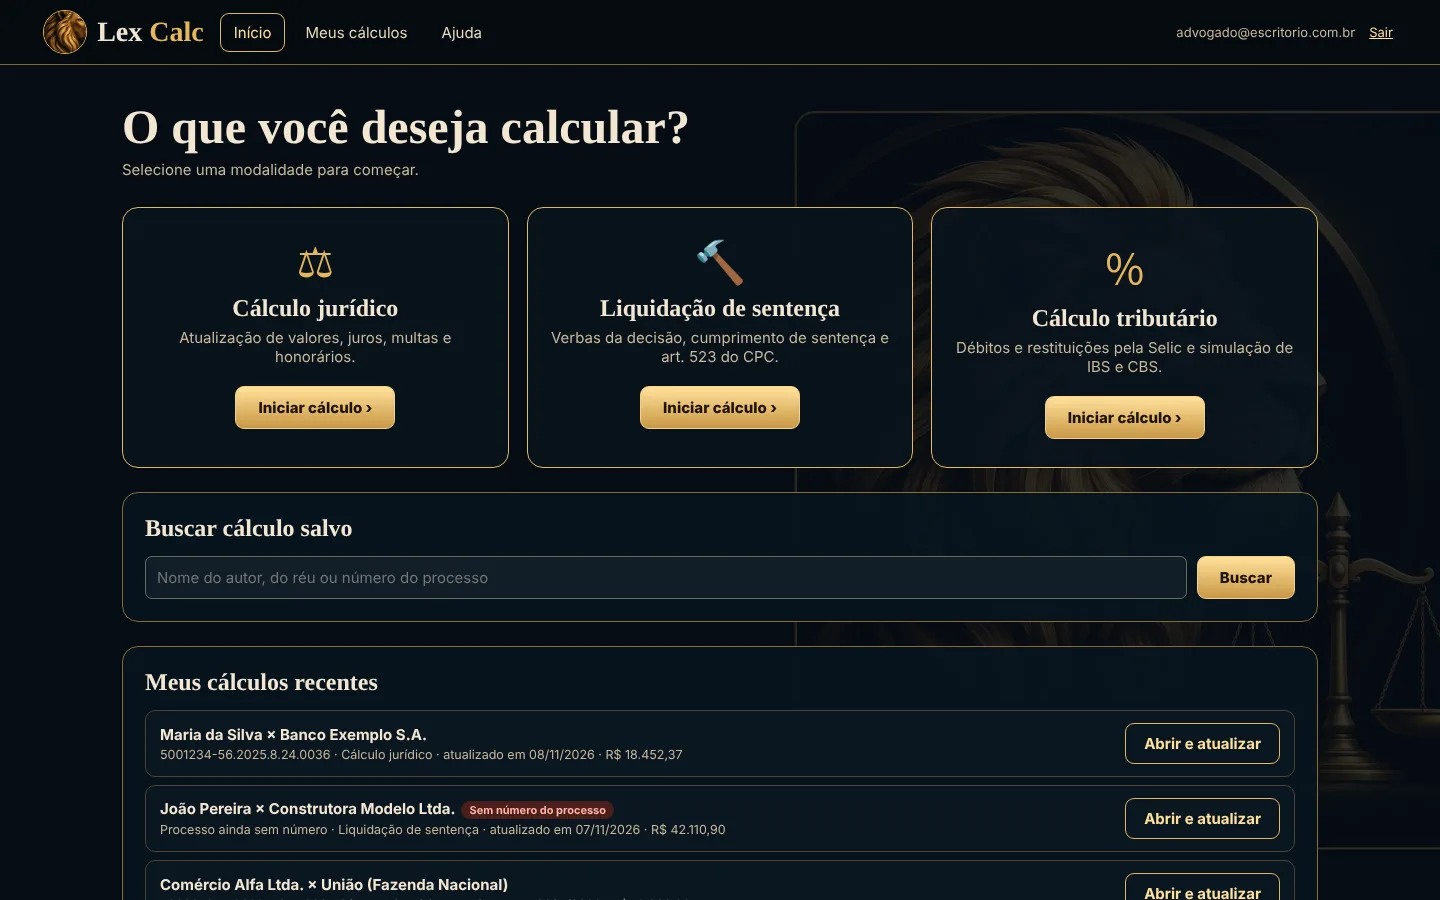
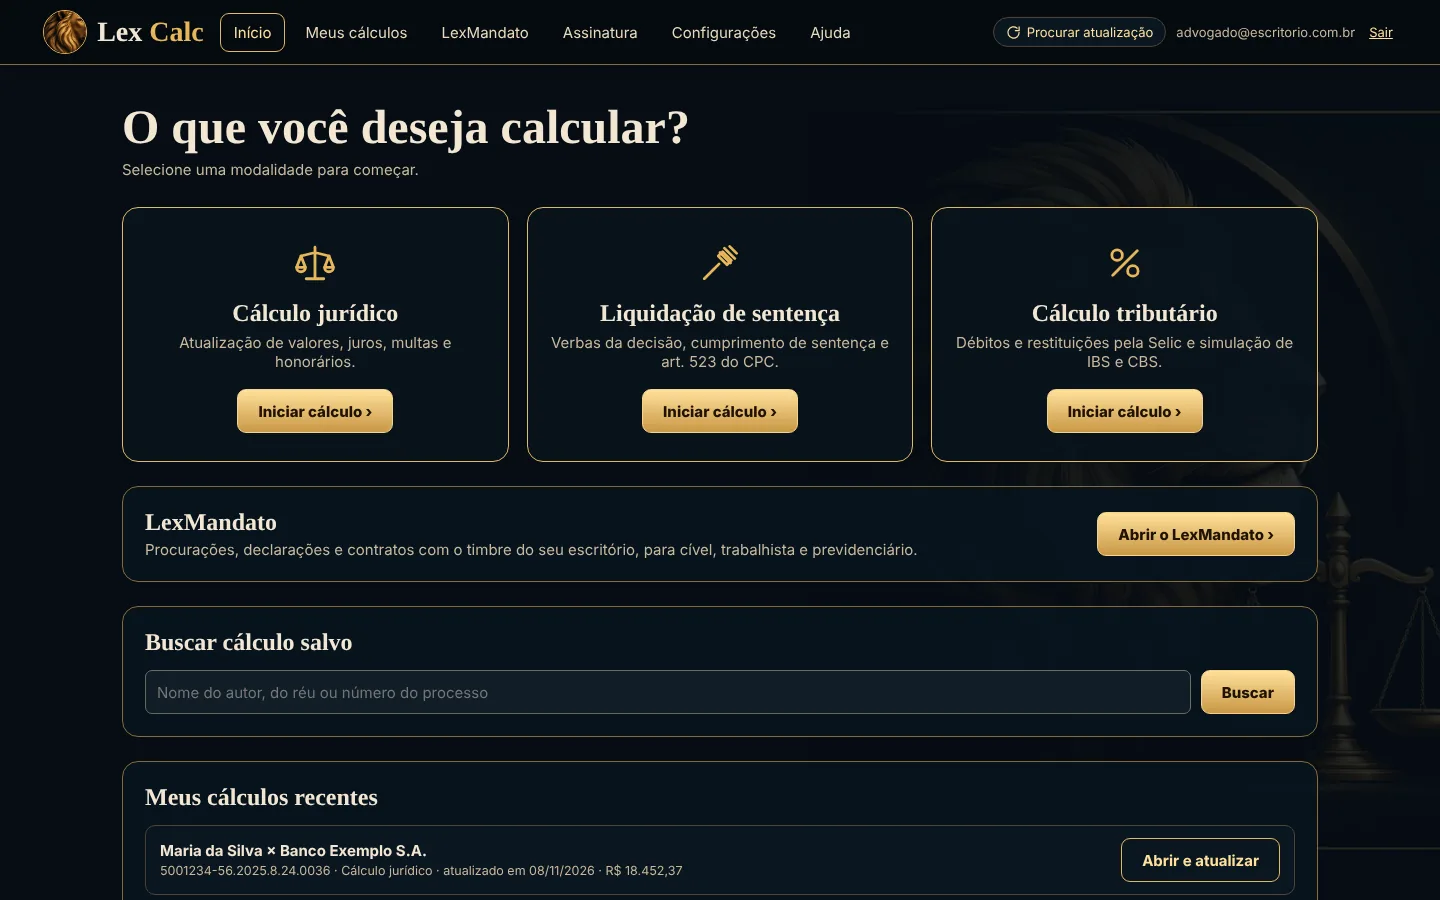
Site: LexMandato no Lex Calc, textos dos dois planos do BlackFlow e termos
- seis telas novas ou refeitas do Lex Calc, com dados fictícios: tela
  inicial com o acesso ao LexMandato, painel, nova procuração em etapas,
  revisão com a conferência do art. 105 do CPC, biblioteca do escritório e
  lista de documentos com situação;
- textos do topo, do cartão e da apresentação passam a citar o LexMandato
  e os profissionais de hora marcada no BlackFlow;
- retirada a frase "plano único" da aba do BlackFlow, que contradizia os
  dois planos;
- Termos: responsabilidade pelos documentos gerados no LexMandato;
- Privacidade: dados dos clientes do escritório no LexMandato (escritório
  controlador, BlackSolutions operadora) e consulta ao ViaCEP.

diff --git a/index.html b/index.html
@@ -4,7 +4,7 @@
 <meta charset="utf-8">
 <meta name="viewport" content="width=device-width,initial-scale=1">
 <title>BlackSolutions</title>
-<meta name="description" content="BlackSolutions: BlackFlow, gestão para clínicas e salões, e Lex Calc, cálculos jurídicos e tributários. Veja todas as telas e como funcionam.">
+<meta name="description" content="BlackSolutions: BlackFlow, agenda e gestão para clínicas, salões e profissionais de hora marcada, e Lex Calc, cálculos jurídicos e tributários com o LexMandato para procurações e contratos. Veja todas as telas e como funcionam.">
 <meta name="theme-color" content="#0a0820">
 <link rel="icon" href="favicon.ico">
 <link rel="preconnect" href="https://fonts.googleapis.com"><link rel="preconnect" href="https://fonts.gstatic.com" crossorigin>
@@ -57,33 +57,33 @@ footer{border-top:1px solid var(--line);padding:26px 0;color:var(--mut);font-siz
 <main>
 <div class="w hero"><span class="eye">Software brasileiro, feito em Jaraguá do Sul</span>
  <h1>Sistemas que <span>organizam o seu trabalho</span> do primeiro atendimento ao último cálculo.</h1>
- <p>O <b>BlackFlow</b> cuida da gestão de clínicas de podologia, estética e salões de beleza. O <b>Lex Calc</b> faz cálculos jurídicos e tributários com índices oficiais. Os dois funcionam pela internet, no computador e no celular, com tudo salvo na nuvem.</p>
+ <p>O <b>BlackFlow</b> organiza a agenda e a gestão de clínicas de podologia, estética, salões de beleza e de quem trabalha com hora marcada. O <b>Lex Calc</b> faz cálculos jurídicos e tributários com índices oficiais e, pelo LexMandato, gera procurações, declarações e contratos com a identidade do escritório. Os dois funcionam pela internet, no computador e no celular, com tudo salvo na nuvem.</p>
  <div class="acts"><a class="btn bv" href="#produtos" onclick="aba('bf')">Ver as telas do BlackFlow</a><a class="btn bg" href="#produtos" onclick="aba('lx')">Ver as telas do Lex Calc</a></div>
- <div class="duo"><a class="pc" href="https://blackflow.app.br"><img src="img/blackflow-icone.png" alt=""><div><h3>BlackFlow</h3><p>Gestão de clínicas e salões · a partir de R$ 29,90 por mês</p></div></a><a class="pc lex" href="https://lexcalc.app.br"><img src="img/lexcalc-icone.png" alt=""><div><h3>Lex Calc</h3><p>Cálculos jurídicos, procurações e contratos · R$ 29,90 por mês</p></div></a></div>
+ <div class="duo"><a class="pc" href="https://blackflow.app.br"><img src="img/blackflow-icone.png" alt=""><div><h3>BlackFlow</h3><p>Agenda e gestão para clínicas e salões · a partir de R$ 29,90 por mês</p></div></a><a class="pc lex" href="https://lexcalc.app.br"><img src="img/lexcalc-icone.png" alt=""><div><h3>Lex Calc</h3><p>Cálculos jurídicos, procurações e contratos · R$ 29,90 por mês</p></div></a></div>
 </div>
 
 <div class="w" id="produtos">
  <div class="tabs"><button class="tab on" id="tbf" onclick="aba('bf')"><img src="img/blackflow-icone.png" alt="">BlackFlow</button><button class="tab" id="tlx" onclick="aba('lx')"><img src="img/lexcalc-icone.png" alt="">Lex Calc</button></div>
 
  <div class="painel on" id="pbf">
-  <div class="intro"><h2>BlackFlow por dentro</h2><p>Veja cada tela do sistema e para que ela serve. Tudo o que aparece aqui vem no plano único, sem módulo extra para pagar.</p>
+  <div class="intro"><h2>BlackFlow por dentro</h2><p>Veja cada tela do sistema e para que ela serve. Tudo o que aparece aqui vem no plano Completo. No plano Só agenda ficam a agenda, os clientes, os profissionais, os serviços e preços e a confirmação pelo WhatsApp.</p>
    <a class="btn bv" href="https://blackflow.app.br">Abrir o BlackFlow</a> <a class="btn bo" href="https://blackflow.app.br/download/BlackFlow_Instalador.exe">Baixar para Windows</a> <a class="btn bo" href="https://blackflow.app.br/download/BlackFlow_Mac_AppleSilicon.dmg">Baixar para Mac</a></div>
   <div class="grade" id="gbf"></div>
   <div class="duo precos">
    <div class="preco"><span style="color:var(--mut);font-weight:700">Só agenda</span><b>R$ 29,90 por mês</b><p>Para quem quer apenas a agenda: horários por profissional, cadastro de clientes, serviços e preços, confirmação pelo WhatsApp e agendamento online. Pensado para manicure, pedicure, barbearia, estúdio de unhas, cílios, massagem e qualquer profissional que trabalhe com hora marcada.</p><div class="pbt"><a class="btn bv" href="https://blackflow.app.br">Começar o teste grátis</a></div></div>
    <div class="preco"><span style="color:var(--mut);font-weight:700">Completo</span><b>R$ 79,99 por mês</b><p>Tudo o que o seu negócio usa: agenda, financeiro com parcelas e recibo, comanda, caixa do dia, estoque, comissões, relatórios e os módulos do seu segmento. Os 100 primeiros assinantes mantêm esse valor sem reajuste enquanto a assinatura estiver ativa.</p><div class="pbt"><a class="btn bv" href="https://blackflow.app.br">Começar o teste grátis</a> <a class="btn bo" href="https://blackflow.app.br/download/Manual_BlackFlow.pdf" target="_blank">Manual em PDF</a></div></div>
   </div>
-  <p style="text-align:center;color:var(--mut);margin:14px 0 0">Teste grátis por 14 dias nos dois planos. Dá para trocar de plano dentro do sistema, sem perder nada do que já foi lançado.</p>
+  <p style="text-align:center;color:var(--mut);margin:14px 0 0">Teste grátis por 14 dias nos dois planos. Para mudar de plano, basta escolher na tela de assinatura do próprio sistema, sem perder nada do que já foi lançado.</p>
  </div>
 
  <div class="painel lexp" id="plx">
-  <div class="intro"><h2>Lex Calc por dentro</h2><p>Cálculo jurídico, liquidação de sentença e cálculo tributário, com os índices buscados direto no Banco Central e cada cálculo salvo na nuvem para atualizar depois.</p><a class="btn bg" href="https://lexcalc.app.br">Abrir o Lex Calc</a></div>
+  <div class="intro"><h2>Lex Calc por dentro</h2><p>Cálculo jurídico, liquidação de sentença e cálculo tributário, com os índices buscados direto no Banco Central e cada cálculo salvo na nuvem para atualizar depois. No mesmo acesso, o LexMandato prepara procurações, declarações e contratos de honorários para as áreas cível, trabalhista e previdenciária.</p><a class="btn bg" href="https://lexcalc.app.br">Abrir o Lex Calc</a></div>
   <div class="grade" id="glx"></div>
   <div class="preco"><span style="color:var(--mut);font-weight:700">Plano único, com os três tipos de cálculo</span><b style="color:var(--gold2)">R$ 29,90 por mês</b><p>Cálculo jurídico, liquidação de sentença e cálculo tributário, com cálculos ilimitados e salvos na nuvem. Inclui o LexMandato, que gera procurações, declarações e contratos com a identidade do seu escritório. Teste grátis por 14 dias.</p><a class="btn bg" href="https://lexcalc.app.br">Começar o teste grátis</a></div>
  </div>
 </div>
 
-<section class="w fund" id="fundador"><div class="fundbox"><div class="fundini">IM</div><div><div class="fundtag">Fundador e CEO</div><h2>Igor Vinicius Penha Martínez</h2><p>A BlackSolutions nasceu dentro de uma clínica de podologia em Jaraguá do Sul e da rotina de quem estuda e trabalha com o Direito. O BlackFlow foi criado para resolver os problemas reais da gestão de uma clínica, e o Lex Calc para dar ao advogado cálculos judiciais confiáveis, com índices oficiais atualizados sozinhos. Cada sistema é desenvolvido e mantido de perto, com atendimento direto de quem os criou.</p></div></div></section>
+<section class="w fund" id="fundador"><div class="fundbox"><div class="fundini">IM</div><div><div class="fundtag">Fundador e CEO</div><h2>Igor Vinicius Penha Martínez</h2><p>A BlackSolutions nasceu dentro de uma clínica de podologia em Jaraguá do Sul e da rotina de quem estuda e trabalha com o Direito. O BlackFlow foi criado para resolver os problemas reais da gestão de uma clínica, e o Lex Calc para dar ao advogado cálculos judiciais confiáveis, com índices oficiais atualizados sozinhos, e a documentação do cliente pronta no padrão do próprio escritório. Cada sistema é desenvolvido e mantido de perto, com atendimento direto de quem os criou.</p></div></div></section>
 <section class="w sup" id="suporte"><div class="supbox"><div><h2>Vendas, suporte e dúvidas</h2><p>Atendimento direto com quem desenvolveu os sistemas. Chame no WhatsApp para contratar, tirar dúvidas, pedir uma demonstração ou ajuda com a instalação.</p></div>
  <div><div style="color:#cfe9dc">WhatsApp</div><div class="num">(47) 98843-2859</div><a class="btn bw" href="https://wa.me/5547988432859?text=Ol%C3%A1!%20Preciso%20de%20ajuda%20com%20a%20BlackSolutions." target="_blank" rel="noopener">Chamar no WhatsApp</a></div></div></section>
 </main>
@@ -111,11 +111,16 @@ const BF=[
  ['bf_importar','Importar dados','Traz pacientes, agenda, financeiro, orçamentos, anamneses e até as fotos de outro sistema, com as planilhas exportadas de lá.']];
 const LX=[
  ['lx_login','Entrada segura','Cada advogado entra com o próprio e-mail e senha. Os cálculos ficam salvos na nuvem e só o dono da conta enxerga.'],
- ['lx_inicio','Escolha do cálculo','Três modalidades na tela inicial: cálculo jurídico, liquidação de sentença e cálculo tributário. Logo abaixo, a busca e os cálculos recentes.'],
+ ['lx_inicio','Escolha do cálculo','Três modalidades na tela inicial: cálculo jurídico, liquidação de sentença e cálculo tributário. Logo abaixo, o acesso ao LexMandato, a busca e os cálculos recentes.'],
  ['lx_resultado','Cálculo jurídico','Cálculo individual ou por parcelas, com as tabelas dos tribunais (TJSC, TJSP, TJRS, TJPR, TJMG, TJDFT, Fazenda Pública, previdenciário e Justiça do Trabalho) ou índice único, IPCA, IPCA-E, INPC, IGP-M ou Selic, juros legais por período, 1% ou 0,5% ao mês, Selic ou taxa legal da Lei 14.905/2024, opção de desconsiderar a deflação, multa e honorários. O resultado sai com a memória de cálculo de cada valor.'],
  ['lx_liquidacao','Liquidação de sentença','Verbas da condenação, cada uma com índice e data de juros próprios, e a opção da multa de 10% e dos honorários de 10% do art. 523, §1º, do CPC. Processo distribuído sem número pode ser salvo, e o número passa a ser obrigatório na atualização seguinte.'],
  ['lx_tributario','Cálculo tributário','Débito federal pela regra do Sicalc (Selic mais multa de mora de 0,33% ao dia, limitada a 20%), restituição pela Selic e simulação de IBS, CBS e Imposto Seletivo.'],
- ['lx_meus','Meus cálculos','Para atualizar um cálculo antigo, basta digitar o nome do autor, do réu ou o número do processo. Os processos ainda sem número ficam marcados.']];
+ ['lx_meus','Meus cálculos','Para atualizar um cálculo antigo, basta digitar o nome do autor, do réu ou o número do processo. Os processos ainda sem número ficam marcados.'],
+ ['lm_painel','LexMandato','Procurações, declarações e contratos para as áreas cível, trabalhista e previdenciária. Cada área tem os botões de nova procuração e de contrato, e há atalhos para a declaração de hipossuficiência e para gerar procuração e contrato juntos. Logo abaixo, os documentos pendentes.'],
+ ['lm_cliente','Nova procuração em etapas','O documento é montado em sete etapas: cliente, representação, área e objeto, poderes, documentos, honorários e revisão. A prévia ao lado mostra o texto pronto enquanto os dados são preenchidos, com a concordância de gênero feita sozinha, e o CEP completa o endereço.'],
+ ['lm_revisao','Revisão antes de gerar','Antes de gerar o PDF, o sistema confere se faltou algum dado obrigatório, como a OAB com UF e o endereço profissional exigidos pelo art. 105 do CPC. A aprovação final fica com o advogado responsável.'],
+ ['lm_biblioteca','Biblioteca do escritório','O escritório envia os próprios modelos em Word, de uma área ou de pastas inteiras. O sistema mantém fonte, cabeçalho, rodapé, timbre e marca d\'água, reconhece os campos do cliente, separa os arquivos repetidos e guarda cada nova versão sem alterar os documentos já emitidos.'],
+ ['lm_documentos','Documentos e situação','Cada documento salvo tem a sua situação: rascunho, em revisão, aprovado, gerado, aguardando assinatura, assinado, cancelado ou revogação registrada. Dá para abrir, duplicar e filtrar.']];
 function monta(id,L){document.getElementById(id).innerHTML=L.map((t,i)=>`<div class="tela ${t[3]||''}"><div class="img" onclick="z('img/telas/${t[0]}.webp')"><img src="img/telas/${t[0]}.webp" alt="${t[1]}" loading="lazy"></div><div class="tx"><span class="n">${String(i+1).padStart(2,'0')}</span><h3>${t[1]}</h3><p>${t[2]}</p></div></div>`).join('')}
 monta('gbf',BF);monta('glx',LX);
 function aba(k){document.getElementById('pbf').classList.toggle('on',k==='bf');document.getElementById('plx').classList.toggle('on',k==='lx');document.getElementById('tbf').classList.toggle('on',k==='bf');const t=document.getElementById('tlx');t.classList.toggle('on',k==='lx');t.classList.toggle('lexon',k==='lx')}

diff --git a/privacidade/index.html b/privacidade/index.html
@@ -7,7 +7,7 @@ h1{font-size:30px;margin:0 0 6px}h2{font-size:19px;margin:30px 0 8px;color:#d9d3
 p,li{color:#e6e3ff}ol,ul{padding-left:22px}.nota{border-left:4px solid var(--v1);padding:10px 14px;background:#1f1a52;border-radius:8px;color:#e6e3ff}footer{color:var(--mut);font-size:13px;text-align:center;margin-top:26px}
 @media print{body{background:#fff;color:#000}.box{border:0;background:#fff}p,li,h2{color:#000}}</style><script src="/cliques.js" defer></script></head>
 <body><div class="w"><div class="top"><b>BlackSolutions</b><span><a href="../">Início</a> · <a href="../termos/">Termos de Uso</a> · <a href="../privacidade/">Política de Privacidade</a></span></div>
-<h1>Política de Privacidade</h1><p class="sub">Vale para o BlackFlow (blackflow.app.br) e para o Lex Calc (lexcalc.app.br). Versão de 09/11/2026.</p><div class="box">
+<h1>Política de Privacidade</h1><p class="sub">Vale para o BlackFlow (blackflow.app.br) e para o Lex Calc (lexcalc.app.br). Versão de 11/11/2026.</p><div class="box">
 <p>Esta Política explica quais dados pessoais a <b>BlackSolutions</b> trata nos sistemas BlackFlow e Lex Calc, para que eles são usados e quais são os direitos de cada pessoa, conforme a Lei Geral de Proteção de Dados (Lei 13.709/2018).</p>
 
 <h2>1. Quem é quem</h2>
@@ -15,6 +15,7 @@ p,li{color:#e6e3ff}ol,ul{padding-left:22px}.nota{border-left:4px solid var(--v1)
 <li><b>Dados dos usuários</b> (quem assina e usa os sistemas): a BlackSolutions é a controladora.</li>
 <li><b>Dados dos pacientes e clientes cadastrados no BlackFlow</b>: a clínica é a controladora, e a BlackSolutions é a operadora, que trata os dados somente para prestar o serviço à clínica. Pedidos sobre esses dados devem ser feitos à clínica.</li>
 <li><b>Dados lançados nos cálculos do Lex Calc</b>, como nomes das partes e número do processo: o usuário é o responsável por eles, e a BlackSolutions apenas os guarda para que o usuário os encontre depois.</li>
+<li><b>Dados dos clientes do escritório no LexMandato</b>, como nome, CPF, RG, estado civil, profissão, endereço e contato, além dos modelos de documentos enviados: o escritório é o controlador, e a BlackSolutions é a operadora, que trata esses dados somente para gerar e guardar os documentos do próprio escritório. Pedidos dos titulares devem ser feitos ao escritório.</li>
 </ol>
 
 <h2>2. Dados tratados e finalidades</h2>
@@ -33,6 +34,7 @@ p,li{color:#e6e3ff}ol,ul{padding-left:22px}.nota{border-left:4px solid var(--v1)
 <li><b>Asaas</b>: processamento dos pagamentos das assinaturas.</li>
 <li><b>Google</b>: medição dos anúncios do Google Ads, conforme o item 7. Não recebe dados de pacientes nem de cálculos.</li>
 <li><b>Banco Central do Brasil</b>: consulta pública dos índices econômicos. Nenhum dado pessoal é enviado.</li>
+<li><b>ViaCEP</b>: consulta pública de endereço no LexMandato. Recebe apenas o CEP digitado, sem nome nem documento.</li>
 <li><b>Autoridades</b>: somente quando houver obrigação legal ou ordem judicial.</li>
 </ul>
 <p>Alguns desses fornecedores podem guardar dados em servidores fora do Brasil. Nesses casos, a transferência segue o artigo 33 da Lei 13.709/2018, com fornecedores que adotam padrões de segurança e proteção de dados compatíveis com a lei brasileira.</p>

diff --git a/termos/index.html b/termos/index.html
@@ -7,7 +7,7 @@ h1{font-size:30px;margin:0 0 6px}h2{font-size:19px;margin:30px 0 8px;color:#d9d3
 p,li{color:#e6e3ff}ol,ul{padding-left:22px}.nota{border-left:4px solid var(--v1);padding:10px 14px;background:#1f1a52;border-radius:8px;color:#e6e3ff}footer{color:var(--mut);font-size:13px;text-align:center;margin-top:26px}
 @media print{body{background:#fff;color:#000}.box{border:0;background:#fff}p,li,h2{color:#000}}</style><script src="/cliques.js" defer></script></head>
 <body><div class="w"><div class="top"><b>BlackSolutions</b><span><a href="../">Início</a> · <a href="../termos/">Termos de Uso</a> · <a href="../privacidade/">Política de Privacidade</a></span></div>
-<h1>Termos de Uso</h1><p class="sub">Vale para o BlackFlow (blackflow.app.br) e para o Lex Calc (lexcalc.app.br). Versão de 09/11/2026.</p><div class="box">
+<h1>Termos de Uso</h1><p class="sub">Vale para o BlackFlow (blackflow.app.br) e para o Lex Calc (lexcalc.app.br). Versão de 11/11/2026.</p><div class="box">
 <p>Estes Termos de Uso regulam a contratação e o uso dos sistemas da <b>BlackSolutions</b>, mantidos por Igor Vinicius Penha Martínez, com atendimento em Jaraguá do Sul, Santa Catarina, pelo WhatsApp (47) 98843-2859. Ao criar uma conta ou usar qualquer um dos sistemas, o usuário declara que leu e aceita estes termos e a <a href="../privacidade/">Política de Privacidade</a>.</p>
 
 <h2>1. Os sistemas</h2>
@@ -39,11 +39,12 @@ p,li{color:#e6e3ff}ol,ul{padding-left:22px}.nota{border-left:4px solid var(--v1)
 <li>O pedido de cancelamento pode ser feito pelo WhatsApp (47) 98843-2859.</li>
 </ol>
 
-<h2>5. Responsabilidade pelos cálculos do Lex Calc</h2>
+<h2>5. Responsabilidade pelos cálculos e documentos do Lex Calc</h2>
 <ol>
 <li>O Lex Calc é uma ferramenta de apoio. Os índices são buscados em fontes oficiais, como o Banco Central e a tabela da Contadoria Judicial do Tribunal de Justiça de Santa Catarina, e o critério usado aparece no relatório de cada cálculo.</li>
 <li>A escolha dos critérios, como índice, termos iniciais, juros, multas e honorários, cabe ao usuário, conforme a decisão judicial, o contrato e a legislação aplicável. Antes de apresentar o cálculo em juízo ou a terceiros, o usuário deve conferir os critérios e os valores.</li>
 <li>A BlackSolutions corrige com prioridade qualquer erro de cálculo comunicado pelo usuário, mas não responde por prejuízos decorrentes da escolha de critérios pelo usuário, de dados lançados de forma incorreta, de alterações posteriores de índices pelos órgãos oficiais ou do uso do cálculo sem a conferência indicada no item anterior.</li>
+<li>As procurações, declarações e contratos gerados pelo LexMandato partem dos dados lançados pelo usuário e dos modelos padrão ou enviados pelo escritório. A conferência automática indica dados obrigatórios ausentes, mas não substitui a revisão do advogado responsável, a quem cabe o conteúdo final, a escolha dos poderes e das cláusulas e a assinatura do documento.</li>
 </ol>
 
 <h2>6. Dados dos pacientes no BlackFlow</h2>
